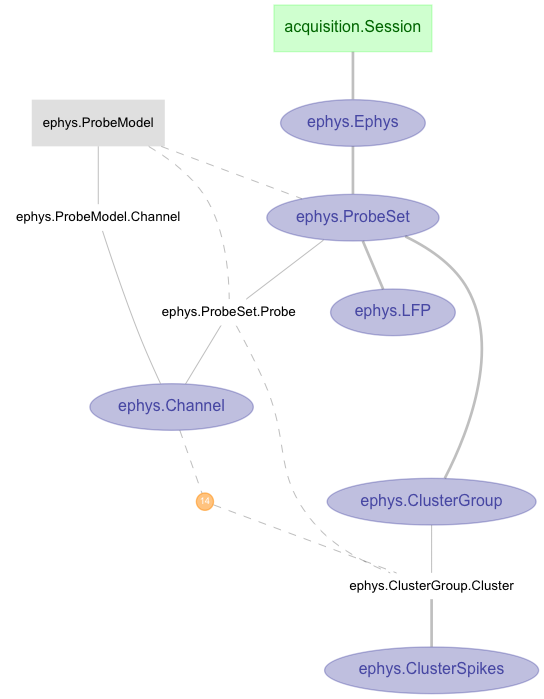
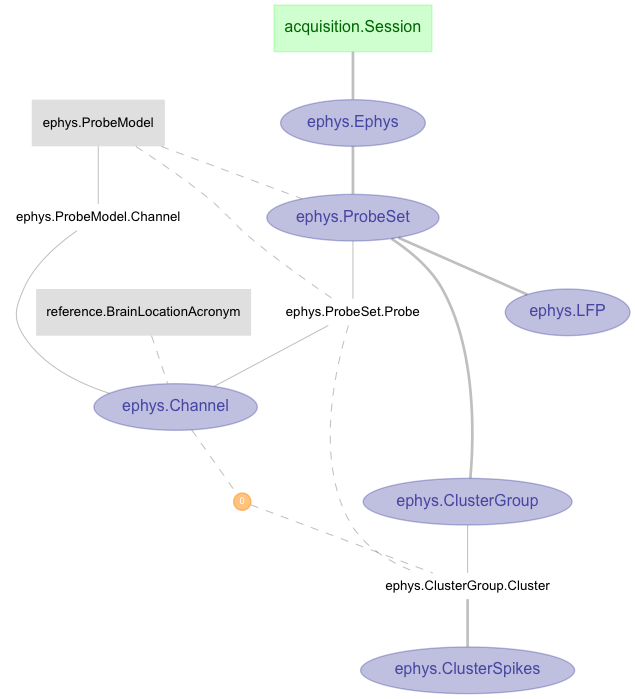
Add reference.BrainLocationAcronym, add sampling rate and other small fixes.

diff --git a/behavior.py b/behavior.py
@@ -1,7 +1,7 @@
 import datajoint as dj
 import acquisition
 
-schema = dj.schema('behavior')
+schema = dj.schema(dj.config['names.{}'.format(__name__)])
 
 @schema
 class Eye(dj.Imported):
@@ -15,8 +15,8 @@ class Eye(dj.Imported):
     eye_y_pos:          longblob # y position of pupil (pixels)
     eye_blink:          boolean  # Boolean array saying whether eye was blinking in each frame
     eye_fps:            float    # frames per second
-    eye_start_time:     float    # start time
-    eye_end_time:       float    # end time
+    eye_start_time:     float    # (seconds)
+    eye_end_time:       float    # (seconds)
     """
 
 @schema
@@ -24,9 +24,13 @@ class Wheel(dj.Imported):
     definition = """
     -> acquisition.Session
     ---
-    wheel_position:     longblob  # Absolute position of wheel (cm)
-    wheel_velocity:     longblob  # Signed velocity of wheel (cm/s) positive = CW
-    wheel_timestamps:   longblob  # Timestamps for wheel timeseries (seconds)
+    wheel_position:         longblob  # Absolute position of wheel (cm)
+    wheel_velocity:         longblob  # Signed velocity of wheel (cm/s) positive = CW
+    wheel_timestamps:       longblob  # Timestamps for wheel timeseries (seconds)
+    wheel_start_time:       float     # (seconds)
+    wheel_end_time:         float     # (seconds)
+    wheel_duration:         float     # (seconds)
+    wheel_sampling_rate:    float     # samples per second
     """
 
 @schema
@@ -47,10 +51,10 @@ class WheelMoveSet(dj.Imported):
         definition = """
         wheel_move_id:          int     # identifier of a wheel movement
         ---
-        wheel_move_start:       blob    # onset time of the detected wheel movement (seconds)
-        wheel_move_end:         blob    # offset time of the detected wheel movement (seconds)
+        wheel_move_start_time:  float   # onset time of the detected wheel movement (seconds)
+        wheel_move_end_time:    float   # offset time of the detected wheel movement (seconds)
         -> WheelMoveType     
-            """
+        """
         
 
 @schema
@@ -69,7 +73,7 @@ class ExtraRewards(dj.Imported):
     definition = """
     -> acquisition.Session
     ---
-    extrarewards_times: longblob 			# times of extra rewards (seconds)
+    extra_rewards_times: longblob 			# times of extra rewards (seconds)
     """
 
 @schema
@@ -89,12 +93,15 @@ class Lick(dj.Imported):
     -> acquisition.Session
     ---
     lick_times:             longblob  # Times of licks
-    #lick_piezo_raw:         longblob  # Raw lick trace (volts)
-    #lick_sample_id:         longblob  # Sample number of lick
-    #lick_piezo_timestamps:  longblob  # Timestamps for lick trace timeseries in seconds
-    #lick_start_times: longblob
-    #lick_end_times: longblob
     """
+
+# saved for future when we have the corresponding data
+#lick_piezo_raw:         longblob  # Raw lick trace (volts)
+#lick_sample_id:         longblob  # Sample number of lick
+#lick_piezo_timestamps:  longblob  # Timestamps for lick trace timeseries in seconds
+#lick_start_times: longblob
+#lick_end_times: longblob
+
 
 @schema
 class TrialSet(dj.Imported):
@@ -109,13 +116,13 @@ class TrialSet(dj.Imported):
         # all times are in absolute seconds, rather than relative to trial onset
         definition = """
         -> master
-        trial_idx:              int           # trial identification number
+        trial_id:               int           # trial identification number
         ---
         trial_start_time:       float         # beginning of quiescent period time (seconds)
         trial_end_time:         float         # end of iti (seconds)
         trial_go_cue_time:      float         # Time of go cue in choiceworld (seconds)
         trial_response_time:    float         # Time of "response" in choiceworld (seconds). This is when one of the three possible choices is registered in software, will not be the same as when the mouse's movement to generate that response begins. 
-        trial_choice:           tinyint       # which choice was made in choiceworld: -1 (turn CCW), +1 (turn CW), or 0 (nogo)
+        trial_choice:           enum("CCW", "CW", "No Go")       # which choice was made in choiceworld
         trial_stim_on_time:     float         # Time of stimulus in choiceworld (seconds)
         trial_stim_position:    enum("Left", "Right")	 # position of the stimulus
         trial_stim_contrast:    float         # contrast of the stimulus
@@ -125,11 +132,9 @@ class TrialSet(dj.Imported):
         """
 
 @schema
-class TrialInclude(dj.Imported):
+class ExcludedTrial(dj.Imported):
     definition = """
-    -> TrialSet
-    ---
-    trial_included:         boolean	      # boolean suggesting which trials to include in analysis, chosen at experimenter discretion, e.g. by excluding the block of incorrect trials at the end of the session when the mouse has stopped
+    -> TrialSet.Trial
     """
 
 @schema
@@ -141,8 +146,8 @@ class PassiveTrial(dj.Imported):
     -> acquisition.Session
     passive_trial_id:           int         # trial identifier
     ---
-    passive_trial_included:     boolean		# suggesting whether this trial to include in analysis, chosen at experimenter discretion, e.g. by excluding the block of incorrect trials at the end of the session when the mouse has stopped
-    passive_trial_stim_on_time: float	    # Time of stimuli in choiceworld
+    passive_trial_included:         boolean		             # suggesting whether this trial to include in analysis, chosen at experimenter discretion, e.g. by excluding the block of incorrect trials at the end of the session when the mouse has stopped
+    passive_trial_stim_on_time:     float	                 # Time of stimuli in choiceworld
     passive_trial_stim_position:    enum("Left", "Right")	 # position of the stimulus
     passive_trial_contrast:         float                    # contrast of the stimulus				    
     passive_valve_click_time:       float 		             # Time of valve opening during passive trial presentation (seconds)

diff --git a/ephys.py b/ephys.py
@@ -1,7 +1,8 @@
 import datajoint as dj
 import acquisition
+import reference
 
-schema = dj.schema('ephys')
+schema = dj.schema(dj.config['names.{}'.format(__name__)])
 
 @schema
 class Ephys(dj.Imported):
@@ -13,6 +14,7 @@ class Ephys(dj.Imported):
     ephys_start_time:       float        # (seconds)
     ephys_start_time:       float        # (seconds)
     ephys_duration:         float        # (seconds)
+    ephys_sampling_rate:    float        # samples per second
     """
 
 @schema
@@ -27,8 +29,8 @@ class ProbeModel(dj.Lookup):
         -> master
         channel_id:         smallint     # id of a channel on the probe
         ---
-        channel_x_pos:  float   # (um)
-        channel_y_pos:  float   # (um)
+        channel_x_pos:  float   # x position relative to the tip of the probe (um)
+        channel_y_pos:  float   # y position relative to the tip of the probe (um)
         """
 
 @schema
@@ -59,11 +61,11 @@ class Channel(dj.Imported):
     -> ProbeSet.Probe
     -> ProbeModel.Channel
     ---
-    channel_index:          smallint    # position within the recording array
-    channel_ccf_ap:         float       # (um)
-    channel_ccf_dv:         float       # (um)
-    channel_ccf_lf:         float       # (um)
-    channel_ccf_acronym:    float       # (um)
+    channel_index:          smallint    # position within the data array of recording
+    channel_ccf_ap:         float       # anterior posterior CCF coordinate (um)
+    channel_ccf_dv:         float       # dorsal ventral CCF coordinate (um)
+    channel_ccf_lr:         float       # left right CCF coordinate (um)
+    -> reference.BrainLocationAcronym   # acronym of the brain location 
     channel_raw_row:        smallint     # Each channel's row in its home file (look up via probes.rawFileName), counting from zero. Note some rows don't have a channel, for example if they were sync pulses
     """
 
@@ -72,7 +74,6 @@ class ClusterGroup(dj.Imported):
     definition = """
     -> ProbeSet
     ---
-    cluster_phy_annotation: tinyint       # 0 = noise, 1 = MUA, 2 = Good, 3 = Unsorted, other number indicates manual quality score (from 4 to 100)
     """
     class Cluster(dj.Part):
         definition = """
@@ -86,6 +87,7 @@ class ClusterGroup(dj.Imported):
         cluster_amp:                float         # Mean amplitude of each cluster (µV)
         -> ProbeSet.Probe
         (cluster_peak_channel)  -> Channel(channel_id)
+        cluster_phy_annotation:     tinyint       # 0 = noise, 1 = MUA, 2 = Good, 3 = Unsorted, other number indicates manual quality score (from 4 to 100)
         """
 
 @schema
@@ -108,4 +110,5 @@ class LFP(dj.Imported):
     lfp_start_time:       float        # (seconds)
     lfp_end_time:         float        # (seconds)
     lfp_duration:         float        # (seconds)
+    lfp_sampling_rate:    float        # samples per second
     """

diff --git a/reference.py b/reference.py
@@ -1,6 +1,6 @@
 import datajoint as dj
 
-schema = dj.schema(dj.config['names.%s' % __name__], locals())
+schema = dj.schema(dj.config['names.{}'.format(__name__)])
 
 
 @schema
@@ -52,3 +52,22 @@ class Note(dj.Manual):
     text:		varchar(255)		# text
     object_id:		char(32)		# object id
     """
+
+@schema
+class BrainLocationAcronym(dj.Lookup):
+    definition = """
+    acronym:  varchar(32) # acronym of a brain location
+    ---
+    full_name = null: varchar(128) # full name of the brain location
+    """
+    contents = [
+        ['ACA', 'Anterior cingulate area'],
+        ['ACB', 'Nucleus accumbens'],
+        ['IC', 'Inferior colliculus '],
+        ['MOs', 'Secondary motor area'],
+        ['MRN', 'Midbrain reticular nucleus'],
+        ['root', ''],
+        ['RSP', 'Retrosplenial area'],
+        ['SCsg', 'Superficial gray layer '],
+        ['VISp', 'Primary visual area']
+    ]

diff --git a/acquisition.py b/acquisition.py
@@ -3,7 +3,7 @@ import datajoint as dj
 import subject
 import reference
 
-schema = dj.schema(dj.config['names.%s' % __name__], locals())
+schema = dj.schema(dj.config['names.{}'.format(__name__)])
 
 '''
 To simplify from Alyx schema, dropping file repositories as core

diff --git a/subject.py b/subject.py
@@ -2,7 +2,7 @@ import datajoint as dj
 import reference
 
 
-schema = dj.schema(dj.config['names.%s' % __name__], locals())
+schema = dj.schema(dj.config['names.{}'.format(__name__)])
 
 
 # Actions:
